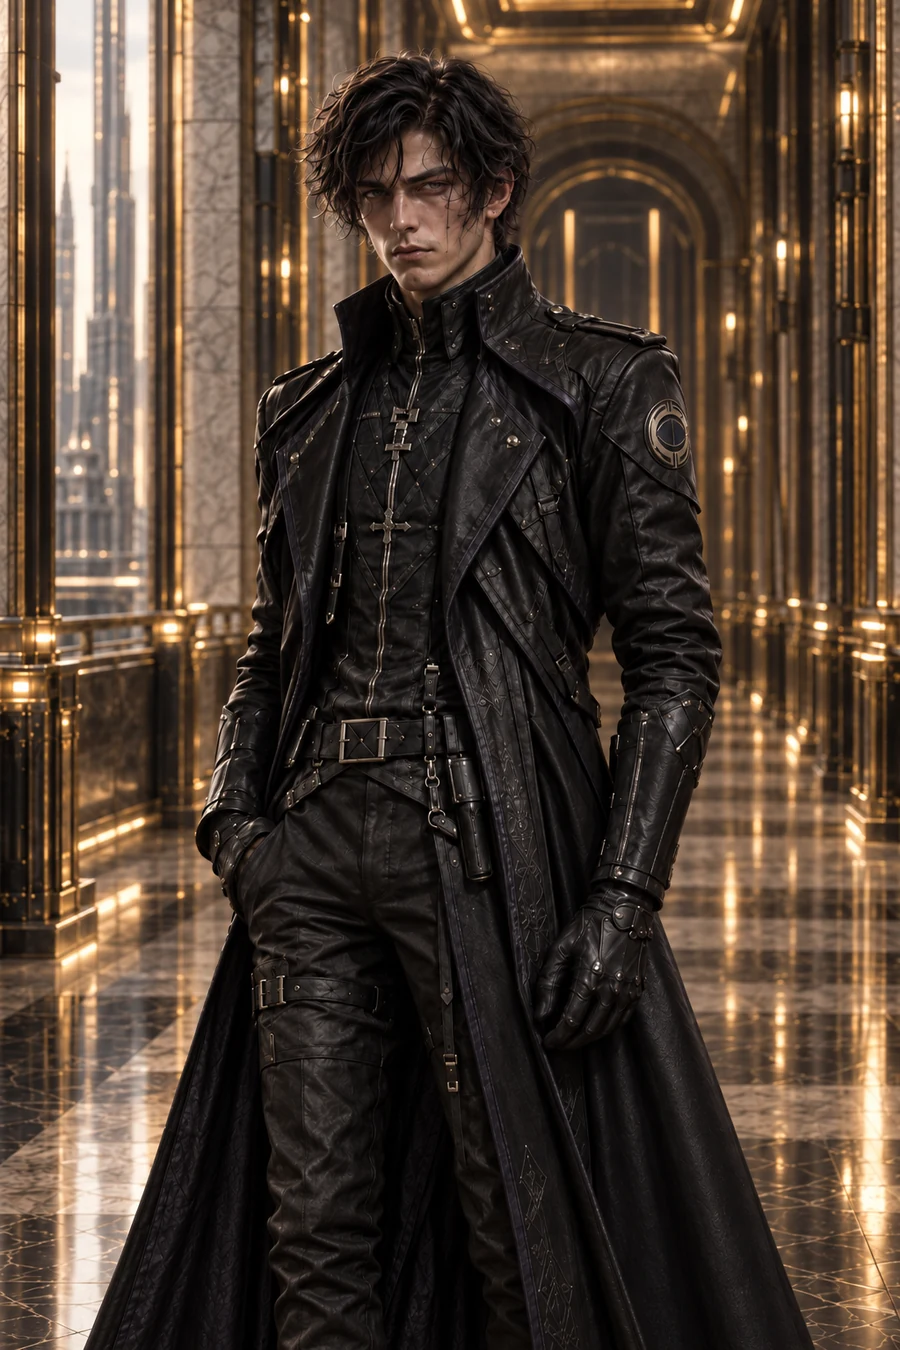
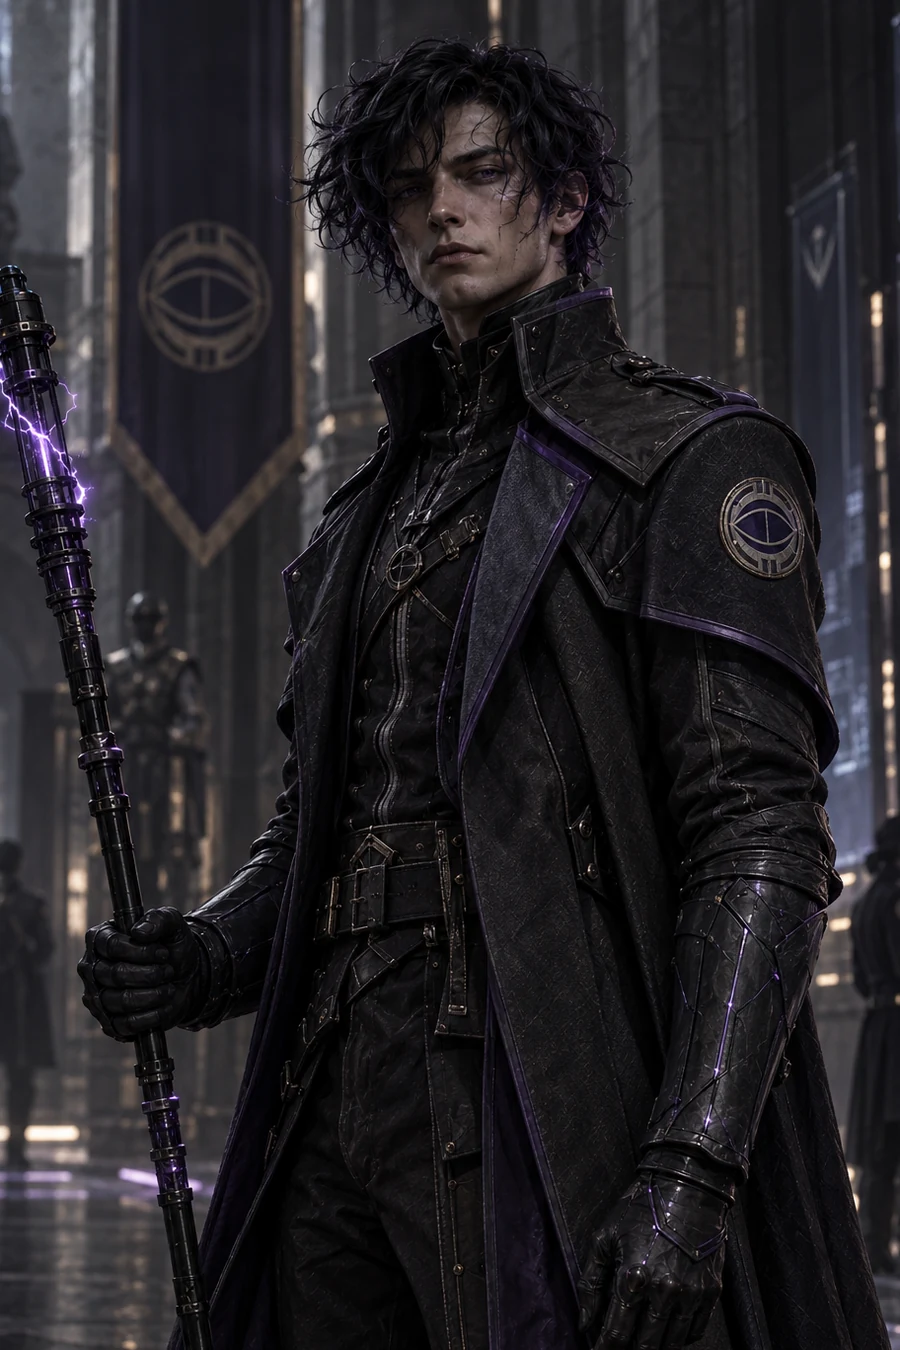
Elías rehecho y el círculo Draevin
Elías pasa a llevar la firma de su casa: gris y negro con morado frío, bastón
de interrupción y el emblema del ojo. La versión anterior era negra con
dorados, sin nada que lo identificara como Sevrin.

Aedra, Selq y Khara entran en Fulgur con unlock 20. Selq es el rubio del
implante ocular, no la mujer morena: "Selq fue el primero que identifiqué.
Delgado, rubio, con un implante alrededor de uno de los ojos."

diff --git a/content.js b/content.js
@@ -58,6 +58,9 @@ window.BOOK_DATA = {
     { id: "edria", name: "Edria Aurelian", file: "assets/personajes/edria-aurelian.webp", w: 900, h: 1350, unlock: 13, section: "aurelian" },
     { id: "rivan", name: "Rivan Aurelian", file: "assets/personajes/rivan-aurelian.webp", w: 900, h: 1350, unlock: 14, section: "aurelian" },
     { id: "tavian", name: "Tavian Aurelian", file: "assets/personajes/tavian-aurelian.webp", w: 900, h: 1350, unlock: 14, section: "aurelian" },
+    { id: "aedra", name: "Aedra Draevin", file: "assets/personajes/aedra-draevin.webp", w: 900, h: 1350, unlock: 20, section: "fulgur" },
+    { id: "selq", name: "Selq", file: "assets/personajes/selq.webp", w: 900, h: 1350, unlock: 20, section: "fulgur" },
+    { id: "khara", name: "Khara", file: "assets/personajes/khara.webp", w: 900, h: 1350, unlock: 20, section: "fulgur" },
     { id: "zaira", name: "Zaira", file: "assets/personajes/zaira.webp", w: 900, h: 1349, unlock: 20, section: "fulgur" },
     { id: "nara", name: "Nara", file: "assets/personajes/nara.webp", w: 900, h: 1350, unlock: 24, section: "aurelian" },
     { id: "calev", name: "Calev", file: "assets/personajes/calev.webp", w: 900, h: 1350, unlock: 24, section: "aurelian" },

diff --git a/sw.js b/sw.js
@@ -1,6 +1,6 @@
 // REGLA (heredada del Libro I): todo cambio a index.html, styles.css, content.js,
 // app.js o nieve.js exige subir SHELL_CACHE antes de publicar.
-const SHELL_CACHE = "el-ciclo-inmovil-libro2-shell-v44";
+const SHELL_CACHE = "el-ciclo-inmovil-libro2-shell-v45";
 // Mismo nombre que AUDIO_CACHE en app.js ("Guardar sin conexión"). Si no
 // coinciden, el activate de abajo borra los capitulos guardados. No subirlo sin
 // motivo: vacia lo que cada oyente guardo.
